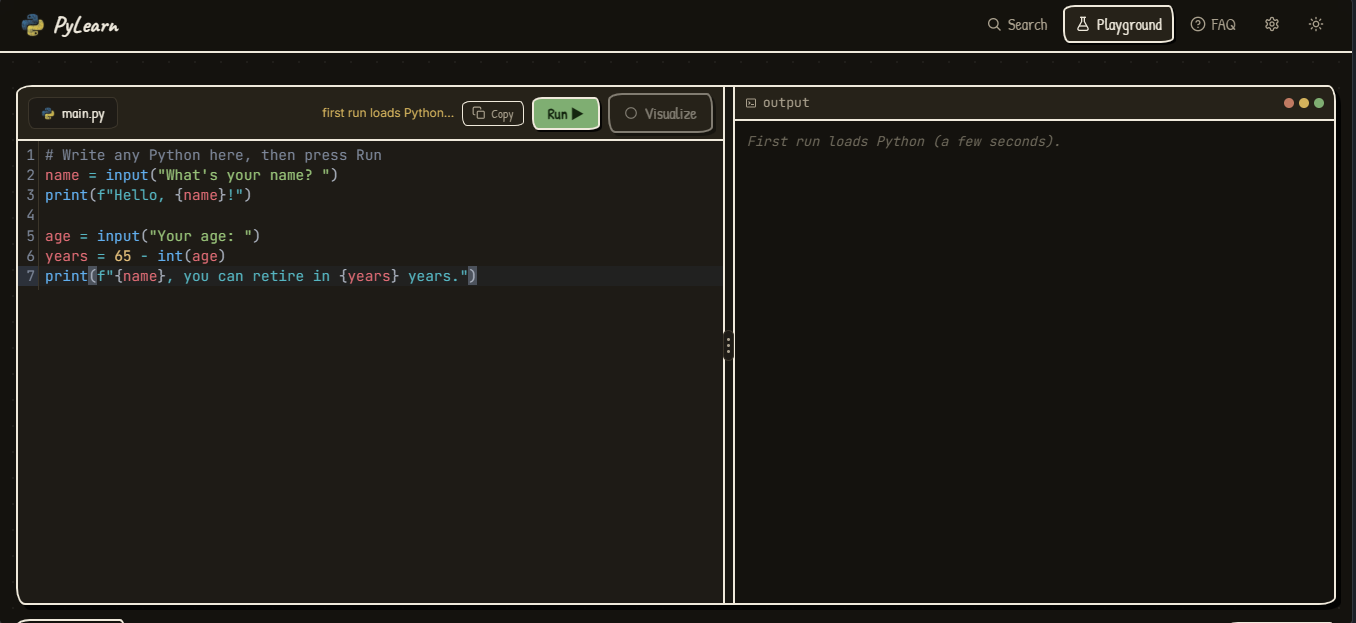
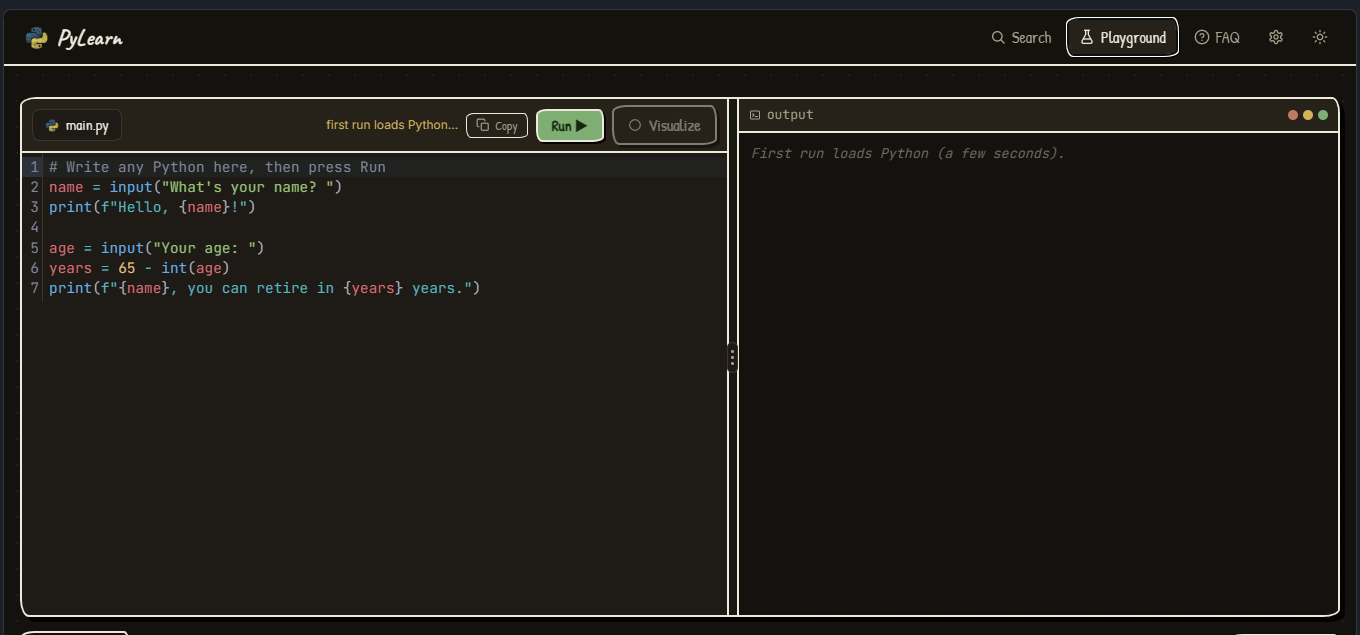
Add new images and update carousel items in Landing component

Changed region(s): [[0.0, 0.0, 1.0, 1.0]]

diff --git a/src/components/FlexCarousel.tsx b/src/components/FlexCarousel.tsx
@@ -94,23 +94,6 @@ interface HitRect {
 
 /* ── content ───────────────────────────────────────────────────────────── */
 
-const photo = (id: string) => `https://images.unsplash.com/${id}?w=1200&q=80&auto=format&fit=max`
-
-const DEFAULT_ITEMS: FlexCarouselItem[] = [
-  { src: photo('photo-1737071371043-761e02b1ef95'), alt: 'An iridescent chrome sculpture of a head', title: 'Iridescence' },
-  { src: photo('photo-1693645325828-62cd35c8da8f'), alt: 'A person in dark clothes standing in front of a white backdrop', title: 'White Room' },
-  { src: photo('photo-1739056238917-d89cd05c48d5'), alt: 'A twisted chrome form on black', title: 'Liquid Metal' },
-  { src: photo('photo-1747191092806-c7da11881986'), alt: 'A clay bust shown in profile', title: 'Clay Study' },
-  { src: photo('photo-1605034313761-73ea4a0cfbf3'), alt: 'Black and white low top sneakers', title: 'Low Tops' },
-  { src: photo('photo-1495462911434-be47104d70fa'), alt: 'A woman in a wide black hat', title: 'Brim' },
-  { src: photo('photo-1786835568925-20cd20007ed0'), alt: 'Three swirling shapes in white, gold and silver on grey', title: 'Three Forms' },
-  { src: photo('photo-1770249196550-ff6c641165cb'), alt: 'A chrome humanoid sculpture', title: 'Automaton' },
-  { src: photo('photo-1787181875088-087d612262a7'), alt: 'A black textured sculpture with an opening at its center', title: 'Obsidian' },
-  { src: photo('photo-1770062422885-2dfcbe8fb65b'), alt: 'A woman in a white shirt crouching on a dark set', title: 'Poise' },
-  { src: photo('photo-1726910133626-9b573eca70ff'), alt: 'Black curved shapes stacked like a fan', title: 'Fins' },
-  { src: photo('photo-1604854574958-59047362c165'), alt: 'A white plaster bust on a black table', title: 'Plaster' },
-]
-
 const BEND_PRESETS: Record<Preset, BendPreset> = {
   liquid: { lensWidth: 0.74, lensHeight: 1.18, tilt: 62, roundness: 1, bend: 0.34, reach: 0.38, curl: 'twist', dispersion: 0.45, liquid: 0, followCursor: false },
   ribbon: { lensWidth: 0.8, lensHeight: 0.8, tilt: 0, roundness: 1, bend: 0.34, reach: 0.34, curl: 'twist', dispersion: 0.4, liquid: 0, followCursor: false },
@@ -290,7 +273,7 @@ const Digits = ({ value }: { value: number }) => (
 /* ── component ─────────────────────────────────────────────────────────── */
 
 export interface FlexCarouselProps {
-  items?: FlexCarouselItem[]
+  items: FlexCarouselItem[]
   preset?: Preset
   intro?: Intro
   cardHeight?: number
@@ -320,7 +303,7 @@ export interface FlexCarouselProps {
 }
 
 export default function FlexCarousel({
-  items = DEFAULT_ITEMS,
+  items,
   preset = 'liquid',
   intro = 'rise',
   cardHeight = 0.5,
@@ -361,7 +344,7 @@ export default function FlexCarousel({
   const pick = <K extends keyof BendPreset>(value: BendPreset[K] | undefined, key: K): BendPreset[K] =>
     value === undefined || value === null ? base[key] : value
 
-  const list = items && items.length ? items : DEFAULT_ITEMS
+  const list = items
   const itemsKey = list.map((item) => item.src).join('|')
 
   useEffect(() => {

diff --git a/src/components/Landing.tsx b/src/components/Landing.tsx
@@ -21,11 +21,10 @@ const HERO_GLYPHS = [
 const carouselImage = (name: string) => `${import.meta.env.BASE_URL}images/${name}`
 
 const CAROUSEL_ITEMS = [
-  { src: carouselImage('one.jpg'), alt: 'A chrome sculpture', title: 'Iridescence' },
-  { src: carouselImage('two.jpg'), alt: 'A figure on a white set', title: 'White Room' },
-  { src: carouselImage('three.jpg'), alt: 'A clay bust in profile', title: 'Clay Study', subtitle: 'Studio 04' },
   { src: carouselImage('playground.png'), alt: 'PyLearn Playground code editor', title: 'PyLearn', subtitle: 'Playground' },
   { src: carouselImage('practice.png'), alt: 'Interactive Python lesson with runnable worked examples', title: 'Learn Python', subtitle: 'Practice as you learn' },
+  { src: carouselImage('topics.png'), alt: 'PyLearn course topics including Foundations, Core Python, Advanced Python, Tkinter, Data Analysis, and Automation', title: 'Learning paths', subtitle: 'Topics' },
+  { src: carouselImage('achievements.png'), alt: 'PyLearn achievements and certificates for lessons, learning streaks, quizzes, and completed tracks', title: 'Achievements', subtitle: 'Motivation as you learn' },
 ]
 
 export function Landing({ navigate, onStart }: { navigate: (v: string) => void; onStart: () => void }) {
